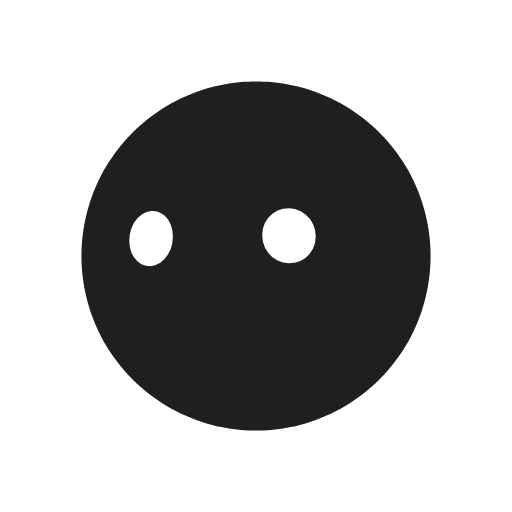
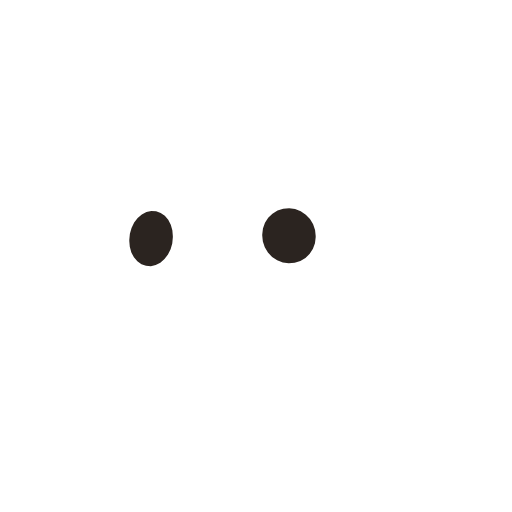
style: 统一为白球黑五官，图标/展示馆/桌面端一致
- 图标重生成：白色球体 + 黑色五官，与程序显示一致
- 展示馆页面默认浅色，球体钉死 dark ink 分支（不随系统变）
- 白球在浅色卡片上没有边界，加双层 drop-shadow 界定轮廓
- 桌面端渲染页声明 color-scheme: light，气泡固定白底黑字

diff --git a/apps/gallery/src/main.ts b/apps/gallery/src/main.ts
@@ -90,18 +90,16 @@ function buildShapeOptions(): void {
 }
 
 /**
- * Steer a static render into the scheme the page is pinned to.
+ * Force the white-ball branch in every static render.
  *
- * The static renderer writes its ink as a `prefers-color-scheme` media query,
- * because it has to look right with no page variables at all. When the switch
- * pins the page to the opposite of the system, the drawing has to be told,
- * or the grid and the live header ball disagree.
+ * The static renderer writes its ink as a `prefers-color-scheme` media query
+ * because it has to work with no page variables at all. The ball is always
+ * white with black features here, so that query is rewritten to match
+ * unconditionally — otherwise a light desktop would silently turn every
+ * picture black while the live elements stay white.
  */
 function pinSvg(svg: string): string {
-  const pinned = document.documentElement.dataset.mono;
-  if (pinned === 'dark') return svg.replaceAll('@media (prefers-color-scheme: dark)', '@media all');
-  if (pinned === 'light') return svg.replaceAll('@media (prefers-color-scheme: dark)', '@media not all');
-  return svg;
+  return svg.replaceAll('@media (prefers-color-scheme: dark)', '@media all');
 }
 
 function cardHtml(id: EmotionId): string {
@@ -187,14 +185,14 @@ shapeSelect.addEventListener('change', () => {
 /* Same rule as the demo: pin the page scheme so the drawing cannot drift. */
 const root = document.documentElement;
 function setMono(on: boolean): void {
-  if (!on) delete root.dataset.mono;
-  else root.dataset.mono = window.matchMedia('(prefers-color-scheme: dark)').matches ? 'light' : 'dark';
+  // Light page by default; the switch only changes what is behind the ball,
+  // never the ball itself.
+  root.dataset.mono = on ? 'dark' : 'light';
   try {
     localStorage.setItem('es.mono', on ? '1' : '0');
   } catch {
     /* private mode */
   }
-  // Static pictures baked the old scheme in; redraw them.
   renderGrid();
 }
 

diff --git a/apps/gallery/src/style.css b/apps/gallery/src/style.css
@@ -3,16 +3,36 @@
   --ink: light-dark(#16161a, #f4f4f5);
   --muted: light-dark(#6b6b70, #9b9ba2);
   --line: light-dark(#e6e6ea, #2a2a30);
-  --page: light-dark(#fbfbfc, #101013);
-  --card: light-dark(#ffffff, #16161a);
+  --page: light-dark(#ffffff, #101013);
+  --card: light-dark(#f4f4f6, #16161a);
   --accent: light-dark(#16161a, #f4f4f5);
   font-family: ui-sans-serif, system-ui, "PingFang SC", "Microsoft YaHei", sans-serif;
   font-size: 14px;
 }
 
-/* The switch pins the page scheme, so the ink of every ball stays put. */
+/*
+ * One look everywhere: white body, black features.
+ *
+ * The ball's colour is not a theme decision — the app icon, the gallery grid
+ * and the desktop pet all show the same white ball, so the element is pinned
+ * to the dark ink branch and never follows the page.
+ */
+html { color-scheme: light; }
 html[data-mono="light"] { color-scheme: light; }
 html[data-mono="dark"] { color-scheme: dark; }
+
+/*
+ * A white ball on a white card has no edge. The shadow is not decoration: it
+ * is what makes the silhouette readable, and it is the only piece of styling
+ * the character needs from its host.
+ */
+aora-bot,
+.card svg {
+  /* Two shadows: a tight one that reads as an outline on pale cards, and a
+     soft one that lifts the ball off the surface. */
+  filter: drop-shadow(0 0 1.5px rgb(0 0 0 / 0.22)) drop-shadow(0 2px 5px rgb(0 0 0 / 0.14));
+  color-scheme: dark;
+}
 
 * { box-sizing: border-box; }
 

diff --git a/apps/desktop/src/renderer/style.css b/apps/desktop/src/renderer/style.css
@@ -1,8 +1,15 @@
 /* A transparent window: only the ball and its bubble paint anything. */
 
+/* One look: a white ball with black features on a light bubble. */
 :root {
-  color-scheme: light dark;
+  color-scheme: light;
   font-family: ui-sans-serif, system-ui, "PingFang SC", "Microsoft YaHei", sans-serif;
+}
+
+aora-bot {
+  color-scheme: dark;
+  /* Same reason as the gallery: a white ball needs an edge on a light desktop. */
+  filter: drop-shadow(0 2px 6px rgb(0 0 0 / 0.22));
 }
 
 html, body {
@@ -43,9 +50,9 @@ aora-bot {
   max-width: 260px;
   padding: 5px 9px;
   border-radius: 10px;
-  background: light-dark(#ffffff, #1c1c1c);
-  color: light-dark(#1a1a1a, #f2f2f2);
-  border: 1px solid light-dark(#e4e4e4, #333333);
+  background: #ffffff;
+  color: #16161a;
+  border: 1px solid #e6e6ea;
   box-shadow: 0 8px 24px rgb(0 0 0 / 0.18);
   font-size: 11px;
   line-height: 1.45;

diff --git a/apps/gallery/index.html b/apps/gallery/index.html
@@ -1,5 +1,5 @@
 <!doctype html>
-<html lang="zh-CN">
+<html lang="zh-CN" data-mono="light">
 <head>
 <meta charset="utf-8" />
 <meta name="viewport" content="width=device-width, initial-scale=1" />
@@ -17,7 +17,7 @@
     <span class="count" id="count"></span>
     <label class="switch">
       <input type="checkbox" id="mono" />
-      <span>反色</span>
+      <span>深色背景</span>
     </label>
   </div>
 </header>

diff --git a/apps/desktop/src/renderer/index.html b/apps/desktop/src/renderer/index.html
@@ -2,6 +2,7 @@
 <html lang="zh-CN">
 <head>
 <meta charset="utf-8" />
+<meta name="color-scheme" content="light" />
 <meta http-equiv="Content-Security-Policy" content="default-src 'self'; style-src 'self' 'unsafe-inline'; img-src 'self' data:; script-src 'self'" />
 <title>EmojiBot</title>
 <link rel="stylesheet" href="./style.css" />
